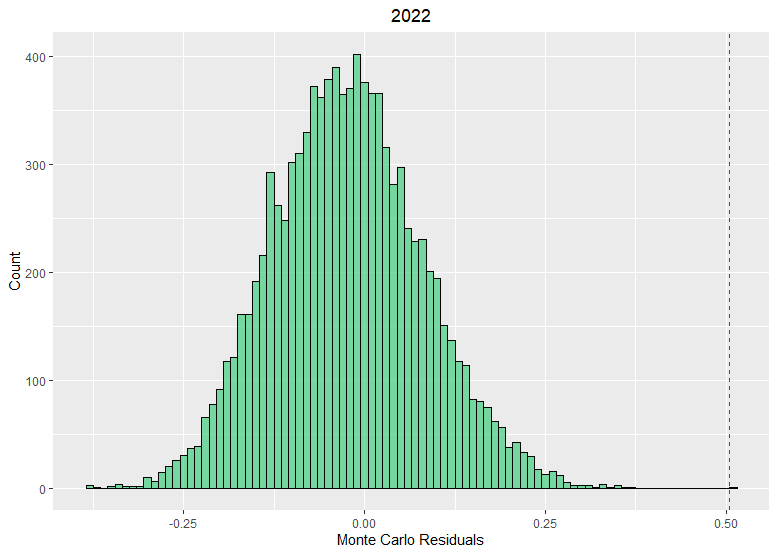
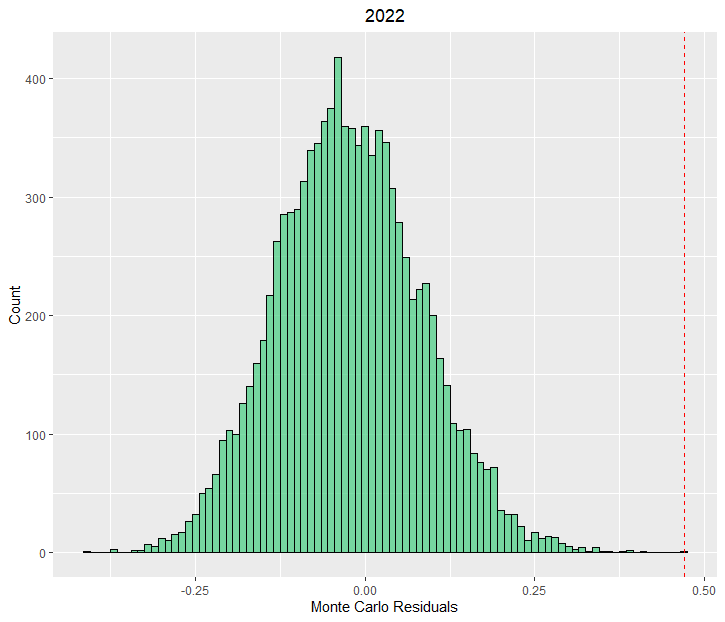
Second round of chaning my plots after updating my incidence data

diff --git a/04_Plots/Old Plots/zinb_count_df.html b/04_Plots/Old Plots/zinb_count_df.html
@@ -1,0 +1,106 @@
+<table class="table table-striped table-hover table-condensed" style="color: black; margin-left: auto; margin-right: auto;">
+ <thead>
+  <tr>
+   <th style="text-align:left;">   </th>
+   <th style="text-align:right;"> Estimate </th>
+   <th style="text-align:right;"> Std. Error </th>
+   <th style="text-align:right;"> z value </th>
+   <th style="text-align:right;"> Pr(&gt;|z|) </th>
+   <th style="text-align:right;"> rate_ratio </th>
+   <th style="text-align:right;"> conf.low </th>
+   <th style="text-align:right;"> conf.high </th>
+  </tr>
+ </thead>
+<tbody>
+  <tr>
+   <td style="text-align:left;"> (Intercept) </td>
+   <td style="text-align:right;"> -15.4941715 </td>
+   <td style="text-align:right;"> 1.5648580 </td>
+   <td style="text-align:right;"> -9.901327 </td>
+   <td style="text-align:right;"> 0.0000000 </td>
+   <td style="text-align:right;"> 0.0000002 </td>
+   <td style="text-align:right;"> 0.0000000 </td>
+   <td style="text-align:right;"> 0.0000040 </td>
+  </tr>
+  <tr>
+   <td style="text-align:left;"> lag0_Precipitation </td>
+   <td style="text-align:right;"> -0.6224077 </td>
+   <td style="text-align:right;"> 0.2055425 </td>
+   <td style="text-align:right;"> -3.028122 </td>
+   <td style="text-align:right;"> 0.0024608 </td>
+   <td style="text-align:right;"> 0.5366508 </td>
+   <td style="text-align:right;"> 0.3586993 </td>
+   <td style="text-align:right;"> 0.8028845 </td>
+  </tr>
+  <tr>
+   <td style="text-align:left;"> lag1_Temperature </td>
+   <td style="text-align:right;"> 0.4364099 </td>
+   <td style="text-align:right;"> 0.0620705 </td>
+   <td style="text-align:right;"> 7.030879 </td>
+   <td style="text-align:right;"> 0.0000000 </td>
+   <td style="text-align:right;"> 1.5471428 </td>
+   <td style="text-align:right;"> 1.3699192 </td>
+   <td style="text-align:right;"> 1.7472934 </td>
+  </tr>
+  <tr>
+   <td style="text-align:left;"> lag2_Relative_Humidity </td>
+   <td style="text-align:right;"> -0.0337417 </td>
+   <td style="text-align:right;"> 0.0148999 </td>
+   <td style="text-align:right;"> -2.264561 </td>
+   <td style="text-align:right;"> 0.0235396 </td>
+   <td style="text-align:right;"> 0.9668212 </td>
+   <td style="text-align:right;"> 0.9389947 </td>
+   <td style="text-align:right;"> 0.9954724 </td>
+  </tr>
+  <tr>
+   <td style="text-align:left;"> Wind_Speed </td>
+   <td style="text-align:right;"> -1.7348367 </td>
+   <td style="text-align:right;"> 0.3153882 </td>
+   <td style="text-align:right;"> -5.500640 </td>
+   <td style="text-align:right;"> 0.0000000 </td>
+   <td style="text-align:right;"> 0.1764290 </td>
+   <td style="text-align:right;"> 0.0950837 </td>
+   <td style="text-align:right;"> 0.3273662 </td>
+  </tr>
+  <tr>
+   <td style="text-align:left;"> Pop_Density </td>
+   <td style="text-align:right;"> -0.4487134 </td>
+   <td style="text-align:right;"> 0.1702730 </td>
+   <td style="text-align:right;"> -2.635258 </td>
+   <td style="text-align:right;"> 0.0084073 </td>
+   <td style="text-align:right;"> 0.6384491 </td>
+   <td style="text-align:right;"> 0.4572850 </td>
+   <td style="text-align:right;"> 0.8913856 </td>
+  </tr>
+  <tr>
+   <td style="text-align:left;"> Pop_No_Hygeine </td>
+   <td style="text-align:right;"> 0.3447051 </td>
+   <td style="text-align:right;"> 0.1220883 </td>
+   <td style="text-align:right;"> 2.823408 </td>
+   <td style="text-align:right;"> 0.0047516 </td>
+   <td style="text-align:right;"> 1.4115736 </td>
+   <td style="text-align:right;"> 1.1111684 </td>
+   <td style="text-align:right;"> 1.7931937 </td>
+  </tr>
+  <tr>
+   <td style="text-align:left;"> Illiteracy_Rate </td>
+   <td style="text-align:right;"> -1.0948631 </td>
+   <td style="text-align:right;"> 0.2555699 </td>
+   <td style="text-align:right;"> -4.284006 </td>
+   <td style="text-align:right;"> 0.0000184 </td>
+   <td style="text-align:right;"> 0.3345854 </td>
+   <td style="text-align:right;"> 0.2027503 </td>
+   <td style="text-align:right;"> 0.5521442 </td>
+  </tr>
+  <tr>
+   <td style="text-align:left;"> Log(theta) </td>
+   <td style="text-align:right;"> -0.9721895 </td>
+   <td style="text-align:right;"> 0.2272716 </td>
+   <td style="text-align:right;"> -4.277655 </td>
+   <td style="text-align:right;"> 0.0000189 </td>
+   <td style="text-align:right;"> 0.3782540 </td>
+   <td style="text-align:right;"> 0.2422847 </td>
+   <td style="text-align:right;"> 0.5905286 </td>
+  </tr>
+</tbody>
+</table>

diff --git a/04_Plots/Old Plots/env_count_df.html b/04_Plots/Old Plots/env_count_df.html
@@ -1,0 +1,76 @@
+<table class="table table-striped table-hover table-condensed" style="color: black; margin-left: auto; margin-right: auto;">
+ <thead>
+  <tr>
+   <th style="text-align:left;">   </th>
+   <th style="text-align:right;"> Estimate </th>
+   <th style="text-align:right;"> Std. Error </th>
+   <th style="text-align:right;"> z value </th>
+   <th style="text-align:right;"> Pr(&gt;|z|) </th>
+   <th style="text-align:right;"> rate_ratio </th>
+   <th style="text-align:right;"> conf.low </th>
+   <th style="text-align:right;"> conf.high </th>
+  </tr>
+ </thead>
+<tbody>
+  <tr>
+   <td style="text-align:left;"> (Intercept) </td>
+   <td style="text-align:right;"> -17.4255733 </td>
+   <td style="text-align:right;"> 1.8319892 </td>
+   <td style="text-align:right;"> -9.511832 </td>
+   <td style="text-align:right;"> 0.0000000 </td>
+   <td style="text-align:right;"> 0.0000000 </td>
+   <td style="text-align:right;"> 0.0000000 </td>
+   <td style="text-align:right;"> 0.0000010 </td>
+  </tr>
+  <tr>
+   <td style="text-align:left;"> lag0_Precipitation </td>
+   <td style="text-align:right;"> -0.6125714 </td>
+   <td style="text-align:right;"> 0.2175589 </td>
+   <td style="text-align:right;"> -2.815658 </td>
+   <td style="text-align:right;"> 0.0048678 </td>
+   <td style="text-align:right;"> 0.5419555 </td>
+   <td style="text-align:right;"> 0.3538130 </td>
+   <td style="text-align:right;"> 0.8301441 </td>
+  </tr>
+  <tr>
+   <td style="text-align:left;"> lag1_Temperature </td>
+   <td style="text-align:right;"> 0.4800150 </td>
+   <td style="text-align:right;"> 0.0632476 </td>
+   <td style="text-align:right;"> 7.589461 </td>
+   <td style="text-align:right;"> 0.0000000 </td>
+   <td style="text-align:right;"> 1.6160986 </td>
+   <td style="text-align:right;"> 1.4276786 </td>
+   <td style="text-align:right;"> 1.8293857 </td>
+  </tr>
+  <tr>
+   <td style="text-align:left;"> lag2_Relative_Humidity </td>
+   <td style="text-align:right;"> -0.0361567 </td>
+   <td style="text-align:right;"> 0.0184535 </td>
+   <td style="text-align:right;"> -1.959337 </td>
+   <td style="text-align:right;"> 0.0500734 </td>
+   <td style="text-align:right;"> 0.9644891 </td>
+   <td style="text-align:right;"> 0.9302279 </td>
+   <td style="text-align:right;"> 1.0000122 </td>
+  </tr>
+  <tr>
+   <td style="text-align:left;"> Wind_Speed </td>
+   <td style="text-align:right;"> -1.1884340 </td>
+   <td style="text-align:right;"> 0.2501261 </td>
+   <td style="text-align:right;"> -4.751339 </td>
+   <td style="text-align:right;"> 0.0000020 </td>
+   <td style="text-align:right;"> 0.3046980 </td>
+   <td style="text-align:right;"> 0.1866199 </td>
+   <td style="text-align:right;"> 0.4974865 </td>
+  </tr>
+  <tr>
+   <td style="text-align:left;"> Log(theta) </td>
+   <td style="text-align:right;"> -1.3138210 </td>
+   <td style="text-align:right;"> 0.2169863 </td>
+   <td style="text-align:right;"> -6.054857 </td>
+   <td style="text-align:right;"> 0.0000000 </td>
+   <td style="text-align:right;"> 0.2687911 </td>
+   <td style="text-align:right;"> 0.1756760 </td>
+   <td style="text-align:right;"> 0.4112607 </td>
+  </tr>
+</tbody>
+</table>

diff --git a/04_Plots/Old Plots/nbr_count_df.html b/04_Plots/Old Plots/nbr_count_df.html
@@ -1,0 +1,66 @@
+<table class="table table-striped table-hover table-condensed" style="color: black; margin-left: auto; margin-right: auto;">
+ <thead>
+  <tr>
+   <th style="text-align:left;">   </th>
+   <th style="text-align:right;"> Estimate </th>
+   <th style="text-align:right;"> Std. Error </th>
+   <th style="text-align:right;"> z value </th>
+   <th style="text-align:right;"> Pr(&gt;|z|) </th>
+   <th style="text-align:right;"> rate_ratio </th>
+   <th style="text-align:right;"> conf.low </th>
+   <th style="text-align:right;"> conf.high </th>
+  </tr>
+ </thead>
+<tbody>
+  <tr>
+   <td style="text-align:left;"> (Intercept) </td>
+   <td style="text-align:right;"> -8.2951357 </td>
+   <td style="text-align:right;"> 1.3827257 </td>
+   <td style="text-align:right;"> -5.999119 </td>
+   <td style="text-align:right;"> 0.0000000 </td>
+   <td style="text-align:right;"> 0.0002497 </td>
+   <td style="text-align:right;"> 0.0000166 </td>
+   <td style="text-align:right;"> 0.0037538 </td>
+  </tr>
+  <tr>
+   <td style="text-align:left;"> lag0_Precipitation </td>
+   <td style="text-align:right;"> -0.7543760 </td>
+   <td style="text-align:right;"> 0.2029803 </td>
+   <td style="text-align:right;"> -3.716499 </td>
+   <td style="text-align:right;"> 0.0002020 </td>
+   <td style="text-align:right;"> 0.4703040 </td>
+   <td style="text-align:right;"> 0.3159355 </td>
+   <td style="text-align:right;"> 0.7000982 </td>
+  </tr>
+  <tr>
+   <td style="text-align:left;"> lag1_Temperature </td>
+   <td style="text-align:right;"> 0.3000245 </td>
+   <td style="text-align:right;"> 0.0445956 </td>
+   <td style="text-align:right;"> 6.727674 </td>
+   <td style="text-align:right;"> 0.0000000 </td>
+   <td style="text-align:right;"> 1.3498918 </td>
+   <td style="text-align:right;"> 1.2369110 </td>
+   <td style="text-align:right;"> 1.4731924 </td>
+  </tr>
+  <tr>
+   <td style="text-align:left;"> lag2_Relative_Humidity </td>
+   <td style="text-align:right;"> -0.1511539 </td>
+   <td style="text-align:right;"> 0.0127113 </td>
+   <td style="text-align:right;"> -11.891257 </td>
+   <td style="text-align:right;"> 0.0000000 </td>
+   <td style="text-align:right;"> 0.8597154 </td>
+   <td style="text-align:right;"> 0.8385608 </td>
+   <td style="text-align:right;"> 0.8814036 </td>
+  </tr>
+  <tr>
+   <td style="text-align:left;"> Pop_No_Hygeine </td>
+   <td style="text-align:right;"> 0.2922330 </td>
+   <td style="text-align:right;"> 0.1064713 </td>
+   <td style="text-align:right;"> 2.744712 </td>
+   <td style="text-align:right;"> 0.0060564 </td>
+   <td style="text-align:right;"> 1.3394150 </td>
+   <td style="text-align:right;"> 1.0871388 </td>
+   <td style="text-align:right;"> 1.6502333 </td>
+  </tr>
+</tbody>
+</table>

diff --git a/04_Plots/Old Plots/env_zero_df.html b/04_Plots/Old Plots/env_zero_df.html
@@ -1,0 +1,66 @@
+<table class="table table-striped table-hover table-condensed" style="color: black; margin-left: auto; margin-right: auto;">
+ <thead>
+  <tr>
+   <th style="text-align:left;">   </th>
+   <th style="text-align:right;"> Estimate </th>
+   <th style="text-align:right;"> Std. Error </th>
+   <th style="text-align:right;"> z value </th>
+   <th style="text-align:right;"> Pr(&gt;|z|) </th>
+   <th style="text-align:right;"> rate_ratio </th>
+   <th style="text-align:right;"> conf.low </th>
+   <th style="text-align:right;"> conf.high </th>
+  </tr>
+ </thead>
+<tbody>
+  <tr>
+   <td style="text-align:left;"> (Intercept) </td>
+   <td style="text-align:right;"> -23.5989201 </td>
+   <td style="text-align:right;"> 5.1847036 </td>
+   <td style="text-align:right;"> -4.551643 </td>
+   <td style="text-align:right;"> 0.0000053 </td>
+   <td style="text-align:right;"> 0.0000000 </td>
+   <td style="text-align:right;"> 0.0000000 </td>
+   <td style="text-align:right;"> 0.0000015 </td>
+  </tr>
+  <tr>
+   <td style="text-align:left;"> Elevation </td>
+   <td style="text-align:right;"> -0.0020509 </td>
+   <td style="text-align:right;"> 0.0009667 </td>
+   <td style="text-align:right;"> -2.121518 </td>
+   <td style="text-align:right;"> 0.0338783 </td>
+   <td style="text-align:right;"> 0.9979512 </td>
+   <td style="text-align:right;"> 0.9960621 </td>
+   <td style="text-align:right;"> 0.9998439 </td>
+  </tr>
+  <tr>
+   <td style="text-align:left;"> lag2_Relative_Humidity </td>
+   <td style="text-align:right;"> 0.3074890 </td>
+   <td style="text-align:right;"> 0.0593745 </td>
+   <td style="text-align:right;"> 5.178809 </td>
+   <td style="text-align:right;"> 0.0000002 </td>
+   <td style="text-align:right;"> 1.3600059 </td>
+   <td style="text-align:right;"> 1.2105987 </td>
+   <td style="text-align:right;"> 1.5278523 </td>
+  </tr>
+  <tr>
+   <td style="text-align:left;"> Wind_Speed </td>
+   <td style="text-align:right;"> -1.9979629 </td>
+   <td style="text-align:right;"> 0.7994893 </td>
+   <td style="text-align:right;"> -2.499049 </td>
+   <td style="text-align:right;"> 0.0124527 </td>
+   <td style="text-align:right;"> 0.1356112 </td>
+   <td style="text-align:right;"> 0.0282981 </td>
+   <td style="text-align:right;"> 0.6498823 </td>
+  </tr>
+  <tr>
+   <td style="text-align:left;"> lag1_Temperature </td>
+   <td style="text-align:right;"> 0.2168218 </td>
+   <td style="text-align:right;"> 0.1022436 </td>
+   <td style="text-align:right;"> 2.120640 </td>
+   <td style="text-align:right;"> 0.0339521 </td>
+   <td style="text-align:right;"> 1.2421227 </td>
+   <td style="text-align:right;"> 1.0165600 </td>
+   <td style="text-align:right;"> 1.5177351 </td>
+  </tr>
+</tbody>
+</table>

diff --git a/04_Plots/Old Plots/zinb_zero_df.html b/04_Plots/Old Plots/zinb_zero_df.html
@@ -1,0 +1,66 @@
+<table class="table table-striped table-hover table-condensed" style="color: black; margin-left: auto; margin-right: auto;">
+ <thead>
+  <tr>
+   <th style="text-align:left;">   </th>
+   <th style="text-align:right;"> Estimate </th>
+   <th style="text-align:right;"> Std. Error </th>
+   <th style="text-align:right;"> z value </th>
+   <th style="text-align:right;"> Pr(&gt;|z|) </th>
+   <th style="text-align:right;"> rate_ratio </th>
+   <th style="text-align:right;"> conf.low </th>
+   <th style="text-align:right;"> conf.high </th>
+  </tr>
+ </thead>
+<tbody>
+  <tr>
+   <td style="text-align:left;"> (Intercept) </td>
+   <td style="text-align:right;"> -19.1941875 </td>
+   <td style="text-align:right;"> 3.6610325 </td>
+   <td style="text-align:right;"> -5.242834 </td>
+   <td style="text-align:right;"> 0.0000002 </td>
+   <td style="text-align:right;"> 0.0000000 </td>
+   <td style="text-align:right;"> 0.0000000 </td>
+   <td style="text-align:right;"> 0.0000060 </td>
+  </tr>
+  <tr>
+   <td style="text-align:left;"> Elevation </td>
+   <td style="text-align:right;"> -0.0019160 </td>
+   <td style="text-align:right;"> 0.0009046 </td>
+   <td style="text-align:right;"> -2.118060 </td>
+   <td style="text-align:right;"> 0.0341700 </td>
+   <td style="text-align:right;"> 0.9980859 </td>
+   <td style="text-align:right;"> 0.9963178 </td>
+   <td style="text-align:right;"> 0.9998570 </td>
+  </tr>
+  <tr>
+   <td style="text-align:left;"> lag2_Relative_Humidity </td>
+   <td style="text-align:right;"> 0.2756771 </td>
+   <td style="text-align:right;"> 0.0456260 </td>
+   <td style="text-align:right;"> 6.042101 </td>
+   <td style="text-align:right;"> 0.0000000 </td>
+   <td style="text-align:right;"> 1.3174224 </td>
+   <td style="text-align:right;"> 1.2047235 </td>
+   <td style="text-align:right;"> 1.4406640 </td>
+  </tr>
+  <tr>
+   <td style="text-align:left;"> Wind_Speed </td>
+   <td style="text-align:right;"> -1.6742147 </td>
+   <td style="text-align:right;"> 0.6258438 </td>
+   <td style="text-align:right;"> -2.675132 </td>
+   <td style="text-align:right;"> 0.0074700 </td>
+   <td style="text-align:right;"> 0.1874553 </td>
+   <td style="text-align:right;"> 0.0549755 </td>
+   <td style="text-align:right;"> 0.6391853 </td>
+  </tr>
+  <tr>
+   <td style="text-align:left;"> lag0_Temperature </td>
+   <td style="text-align:right;"> 0.1155951 </td>
+   <td style="text-align:right;"> 0.0748247 </td>
+   <td style="text-align:right;"> 1.544878 </td>
+   <td style="text-align:right;"> 0.1223757 </td>
+   <td style="text-align:right;"> 1.1225413 </td>
+   <td style="text-align:right;"> 0.9694161 </td>
+   <td style="text-align:right;"> 1.2998535 </td>
+  </tr>
+</tbody>
+</table>
